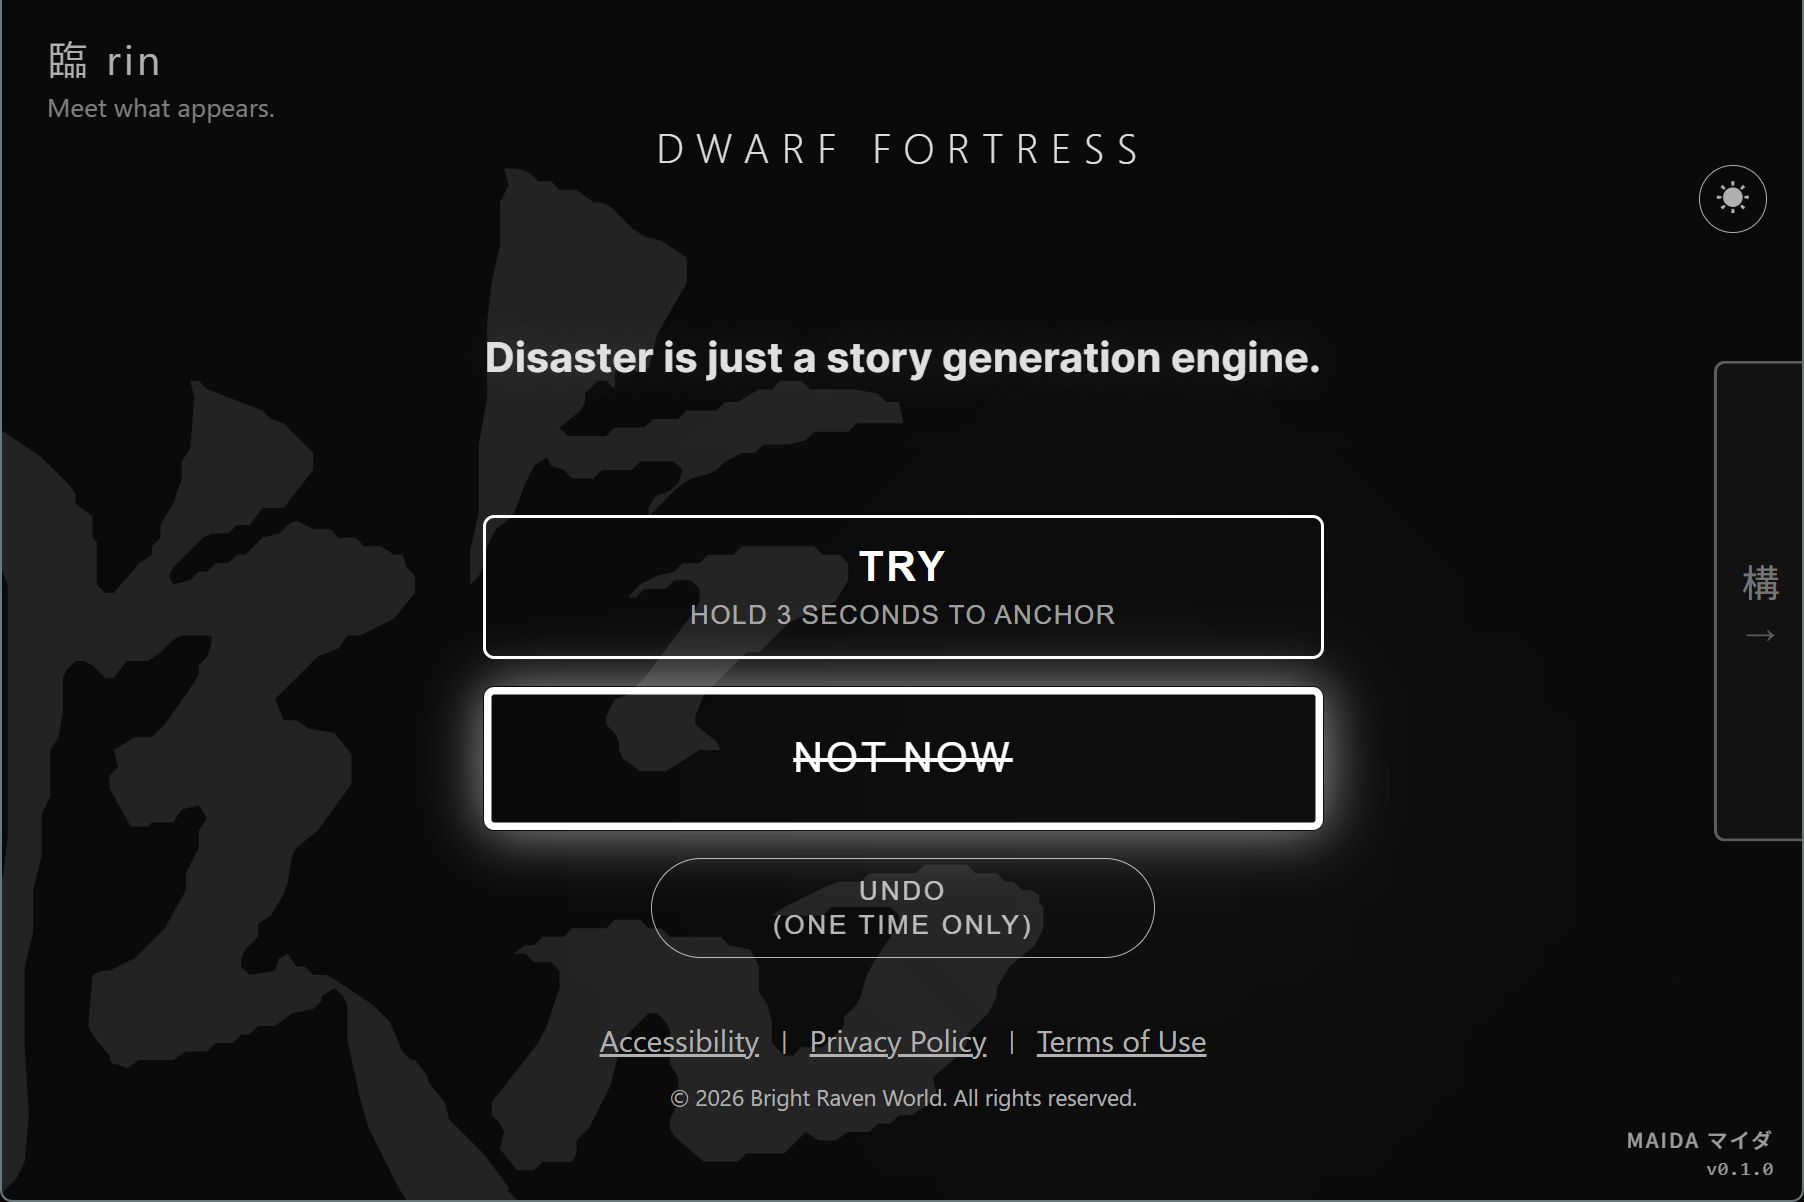
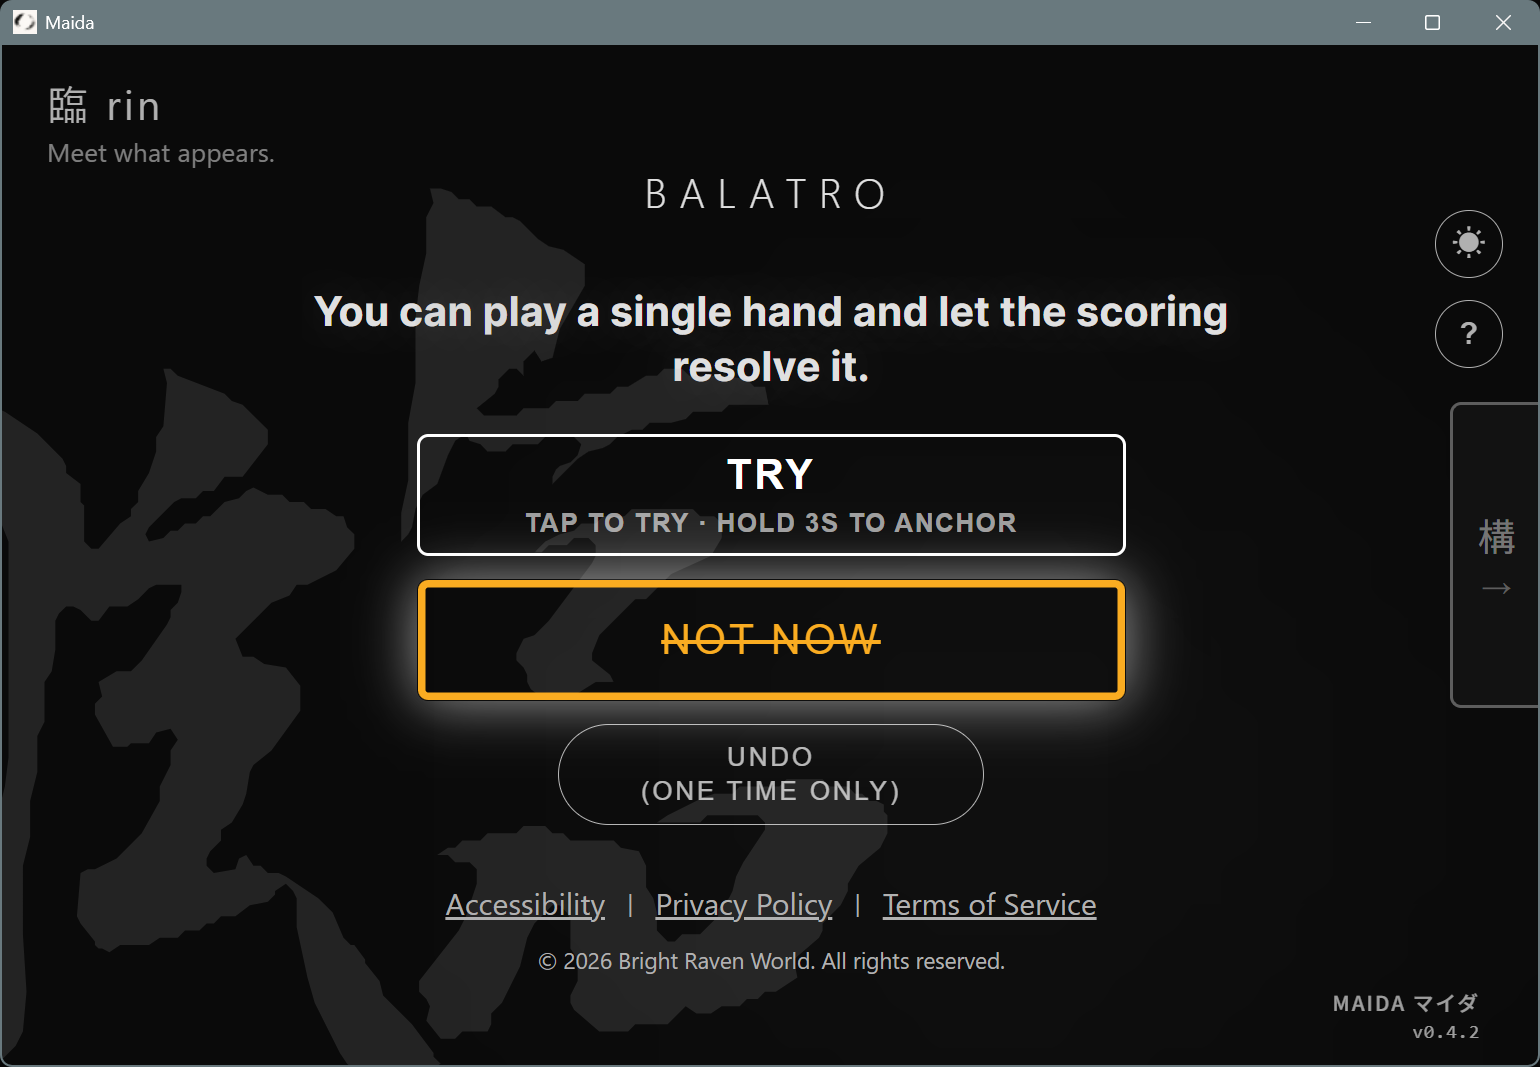
feat: add rin-undo and two-kata screenshots to landing
Rin phase now anchored by rinView_undo showing the one-time-only
UNDO affordance next to TRY and a crossed-out NOT NOW -- illustrates
agency and friction-as-protection in a single frame.

Kamae phase replaces the single-kata screenshot with kamaeView_kata_2,
showing both katas side by side with Steam game covers and the
search-to-add workflow. Higher information density, same figure count.

Also re-trims rinView_undo to match the standard 1540x1067 window crop
after the source was re-captured. Manual page still references the
original kamaeView screenshots; they remain in the folder.

diff --git a/index.html b/index.html
@@ -113,14 +113,18 @@
         <div class="card"><h3><span aria-hidden="true">2</span><span class="sr-only">Step 2</span></h3><p><span data-lang="en">Optionally, narrow the field. Use Kata to face only what you're willing to face today.</span><span data-lang="ja">必要なら場を整える。型で、今日向き合いたいものだけに絞る。</span><span data-lang="zh-tw">如果你想，先整理場域。用型，只面對你今天願意面對的。</span><span data-lang="zh-cn">如果你想，先整理场域。用型，只面对你今天愿意面对的。</span></p></div>
       </div>
       <figure class="screenshot">
-        <img src="screenshots/kamaeView.png" alt="Maida Kamae view showing Kata groupings and game library" class="shot-dark">
-        <img src="screenshots/kamaeView_l.png" alt="Maida Kamae view showing Kata groupings and game library" class="shot-light">
+        <img src="screenshots/kamaeView_kata_2.png" alt="Maida Kamae view showing two katas side by side with one active, search bar, and Steam game covers" class="shot-dark">
+        <img src="screenshots/kamaeView_kata_2_l.png" alt="Maida Kamae view showing two katas side by side with one active, search bar, and Steam game covers" class="shot-light">
       </figure>
       <div class="phase" aria-hidden="true">臨 / rin</div>
       <div class="grid" aria-label="Rin steps">
         <div class="card"><h3><span aria-hidden="true">3</span><span class="sr-only">Step 3</span></h3><p><span data-lang="en">One game appears. Not a list. Not a comparison. Just one.</span><span data-lang="ja">一本が現れる。リストじゃない。比較表でもない。ただ一本。</span><span data-lang="zh-tw">一款遊戲出現。不是清單。不是比較表。就是一款。</span><span data-lang="zh-cn">一款游戏出现。不是清单。不是比较表。就是一款。</span></p></div>
         <div class="card"><h3><span aria-hidden="true">4</span><span class="sr-only">Step 4</span></h3><p><span data-lang="en">Then it steps back. A tool that did its job disappears quietly.</span><span data-lang="ja">そして退く。仕事を終えた道具は、静かに消える。</span><span data-lang="zh-tw">然後它退開。完成工作的工具安靜地退下。</span><span data-lang="zh-cn">然后它退开。完成工作的工具安静地退下。</span></p></div>
       </div>
+      <figure class="screenshot">
+        <img src="screenshots/rinView_undo.png" alt="Rin view showing TRY and a crossed-out NOT NOW, with a one-time-only UNDO button below" class="shot-dark">
+        <img src="screenshots/rinView_undo_l.png" alt="Rin view showing TRY and a crossed-out NOT NOW, with a one-time-only UNDO button below" class="shot-light">
+      </figure>
     </section>
 
     <section aria-labelledby="refuse-title">
